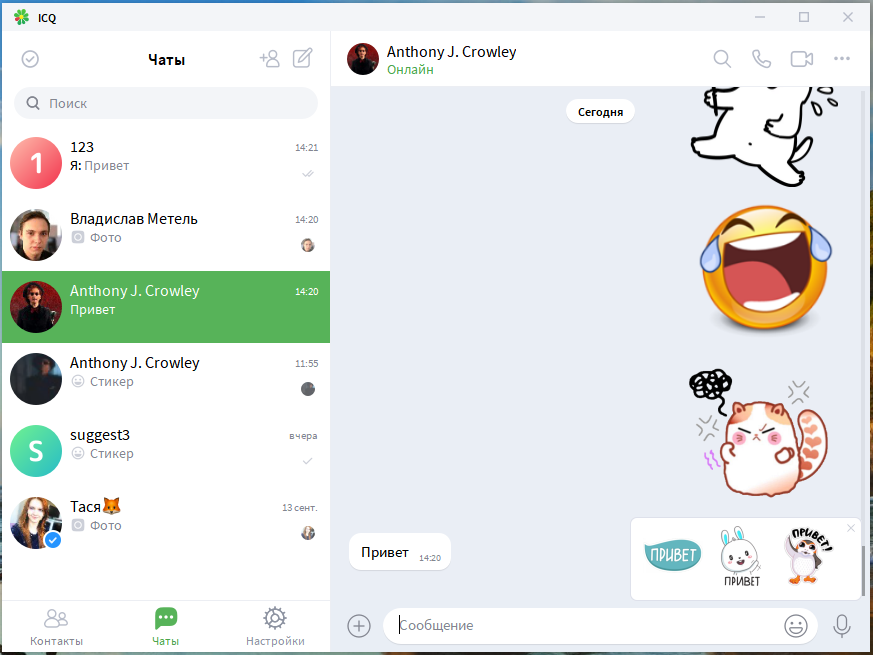
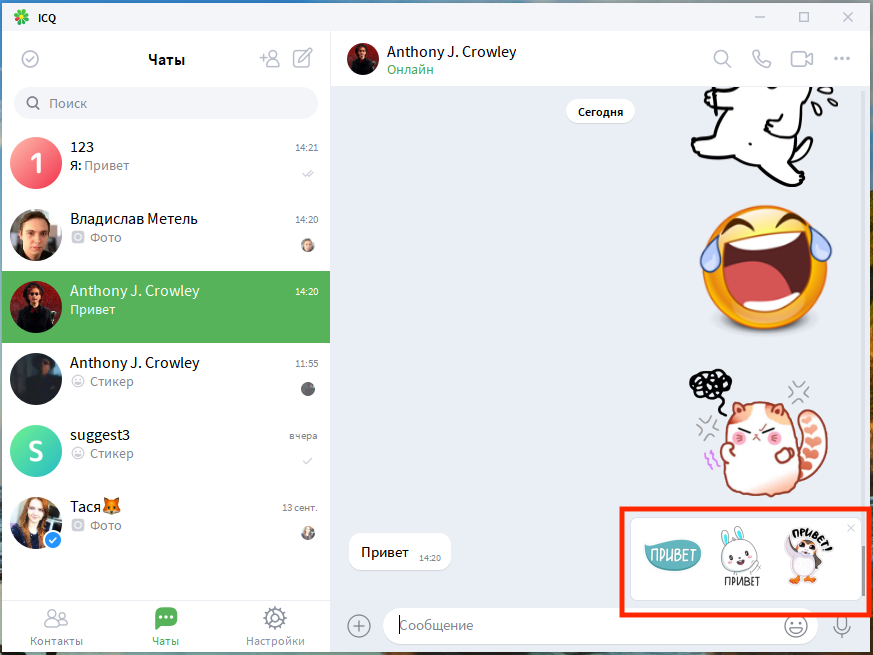
pres

Changed region(s): [[0.7113, 0.7634, 1.0, 0.9466]]

diff --git a/README.md b/README.md
@@ -1,9 +1,12 @@
 # 💥 Интеграция go-сервисов в ICQ 💥
 
-##### Вольдэмар Дулецкий, отделение IM, команда ICQ
+<center>
+![](https://github.com/r00takaspin/icq-go/raw/master/mascot.jpg)
 
+##### Вольдэмар Дулецкий, команда ICQ
+![v.duletskiy@corp.mail.ru]v.duletskiy@corp.mail.ru
+</center>
  ----
-
 
 # Чем занимаемся? 
 
@@ -14,15 +17,16 @@
 
 ---
 
+![](https://github.com/r00takaspin/icq-go/raw/master/suggest.png)
+
+---
+
+
 # go suggest
 
 ### предложить заменить вводимый текст стикером
 ### ответ стикером на сообщение
 ### ответ текстом на сообщение
-
----
-
-![](https://github.com/r00takaspin/icq-go/raw/master/client.png)
 
 --- 
 
